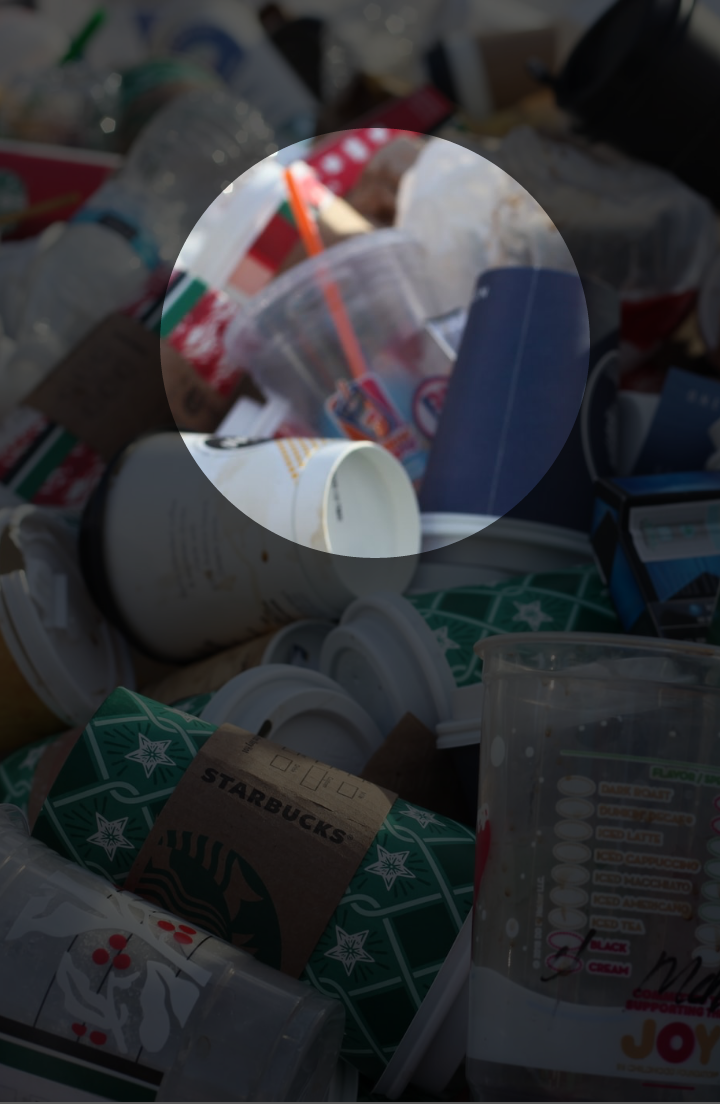
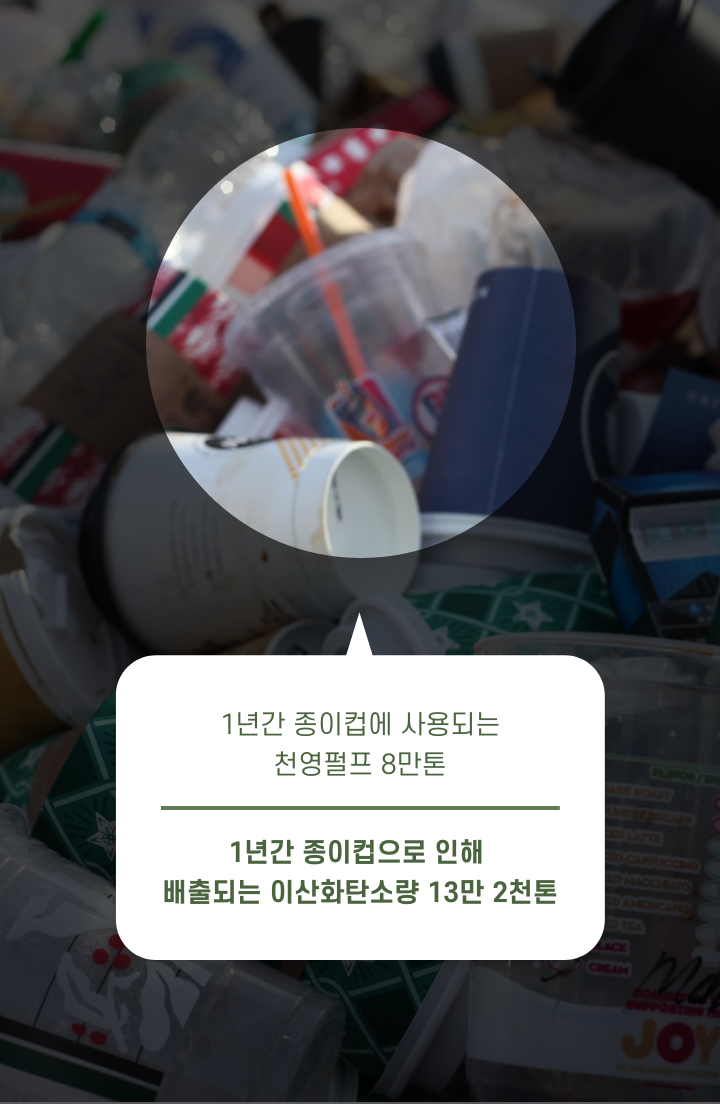
fix(line)

diff --git a/src/components/Main/Bottom/Bottom.jsx b/src/components/Main/Bottom/Bottom.jsx
@@ -10,11 +10,39 @@ function Bottom() {
           return (
             <div className="one">
               <div className="greybar" />
-              <div className="box"></div>
+              <div className="box">
+                <div className="title">{item.title}</div>
+                <div className="content">{item.content}</div>
+              </div>
             </div>
           );
         } else {
-          return <div></div>;
+          return (
+            <div className="two">
+              <div className="greybar" />
+              <div className="box">
+                <div className="title">{item.title}</div>
+                <div className="content">
+                  {item.sub.map((item, idx) => {
+                    return (
+                      <div key={idx} className="sub">
+                        {item}
+                      </div>
+                    );
+                  })}
+                </div>
+                <div className="right">
+                  {item.content.map((item, idx) => {
+                    return (
+                      <div key={idx} className="right">
+                        {item}
+                      </div>
+                    );
+                  })}
+                </div>
+              </div>
+            </div>
+          );
         }
       })}
     </div>

diff --git a/src/components/Main/Bottom/css/index.css b/src/components/Main/Bottom/css/index.css
@@ -1,5 +1,40 @@
 #root .bottom {
   height: 917.5px;
   background-color: #808080;
+  color: white;
+  padding: 127.6px 55px 117.9px 79.9px;
+  -webkit-box-sizing: border-box;
+          box-sizing: border-box;
+}
+
+#root .bottom .greybar {
+  width: 100%;
+  height: 1px;
+  background-color: #ffffff;
+  margin-bottom: 33px;
+}
+
+#root .bottom .title {
+  font-size: 20px;
+  font-weight: bold;
+  font-family: sans-serif;
+  width: 134px;
+  margin-right: 66.3px;
+}
+
+#root .bottom .box {
+  display: -webkit-box;
+  display: -ms-flexbox;
+  display: flex;
+}
+
+#root .bottom .box .content {
+  -webkit-transform: translateY(-14px);
+          transform: translateY(-14px);
+  white-space: pre-line;
+  font-family: sans-serif;
+  font-size: 20px;
+  line-height: 2.65;
+  margin-bottom: 80px;
 }
 /*# sourceMappingURL=index.css.map */

diff --git a/src/components/Main/Bottom/css/index.scss b/src/components/Main/Bottom/css/index.scss
@@ -2,5 +2,36 @@
   .bottom {
     height: 917.5px;
     background-color: #808080;
+    color: white;
+    padding: 127.6px 55px 117.9px 79.9px;
+    box-sizing: border-box;
+
+    .greybar {
+      width: 100%;
+      height: 1px;
+      background-color: #ffffff;
+      margin-bottom: 33px;
+    }
+
+    .title {
+      font-size: 20px;
+      font-weight: bold;
+      font-family: sans-serif;
+      width: 134px;
+      margin-right: 66.3px;
+    }
+
+    .box {
+      display: flex;
+
+      .content {
+        transform: translateY(-14px);
+        white-space: pre-line;
+        font-family: sans-serif;
+        font-size: 20px;
+        line-height: 2.65;
+        margin-bottom: 80px;
+      }
+    }
   }
 }
